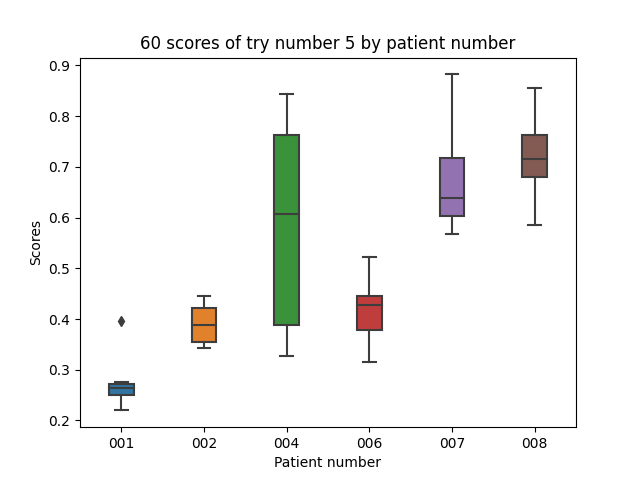
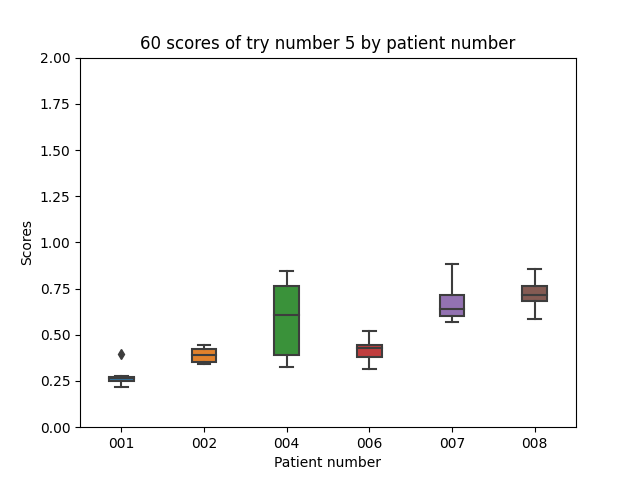
boxplot L010 experiments, setlim to 2

diff --git a/casos/scores/boxplot.py b/casos/scores/boxplot.py
@@ -30,6 +30,7 @@ def crear_boxplot_paciente(cn, en, path_boxplot, paciente, file_score):
     ax.set_title('70 scores of patient 00' + str(paciente) + ' by experiment number')
     ax.set_xlabel("Experiment number")
     ax.set_ylabel("Scores")
+    ax.set_ylim(0,2)
 
     plt.savefig(path)
     # show plot
@@ -63,6 +64,7 @@ def crear_boxplot_pacientes(cn, en, path_scores_dataset_processed, path_boxplot,
     ax.set_title("420 scores of relevant patients by experiment number")
     ax.set_xlabel("Experiment number")
     ax.set_ylabel("Scores")
+    ax.set_ylim(0,2)
 
     plt.savefig(path)
     # show plot
@@ -101,6 +103,7 @@ def crear_boxplot_experimento(cn, en, path_boxplot, try_number, exp_df):
     ax.set_title('60 scores of try number ' + str(try_number) + ' by patient number')
     ax.set_xlabel("Patient number")
     ax.set_ylabel("Scores")
+    ax.set_ylim(0,2)
 
     plt.savefig(path)
     # show plot

diff --git a/casos/scores/scores.py b/casos/scores/scores.py
@@ -10,8 +10,8 @@ from casos.scores.mean_score_graph import crear_grafica_media_resultados_pacient
 
 def bloque_scores(cn, en, path_scores_dataset_processed, path_dataset_scores, path_boxplot, path_processed_scores_dataset, pacientes):
     print("-BLOQUE SCORES: CREAR BOXPLOTS...")
-    #crear_boxplot_pacientes(cn, en, path_scores_dataset_processed, path_boxplot, pacientes)
-    crear_boxplot_experimentos(cn, en, path_scores_dataset_processed, path_boxplot, pacientes)
+    crear_boxplot_pacientes(cn, en, path_scores_dataset_processed, path_boxplot, pacientes)
+    #crear_boxplot_experimentos(cn, en, path_scores_dataset_processed, path_boxplot, pacientes)
 
 
     print("-BLOQUE SCORES: CREAR GRAFICAS CON SCORES...")
